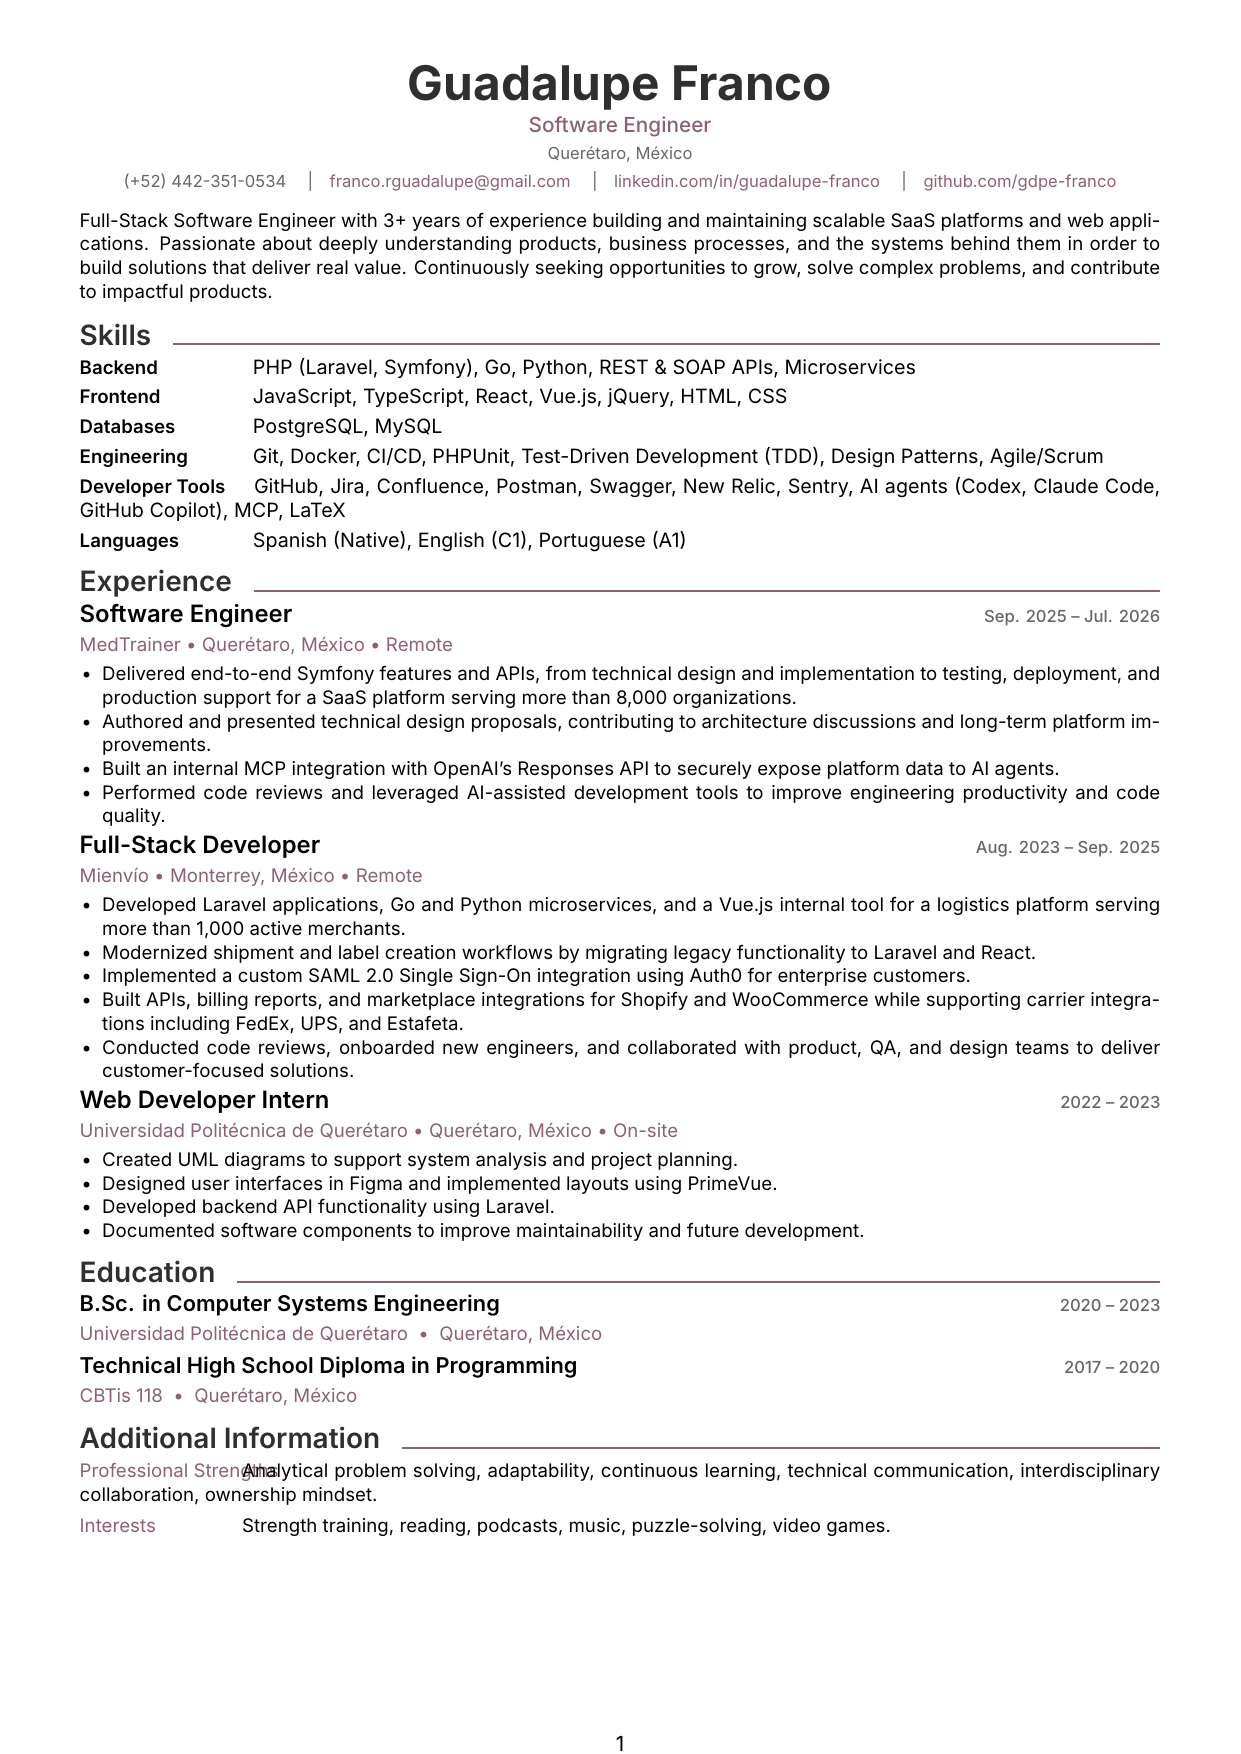
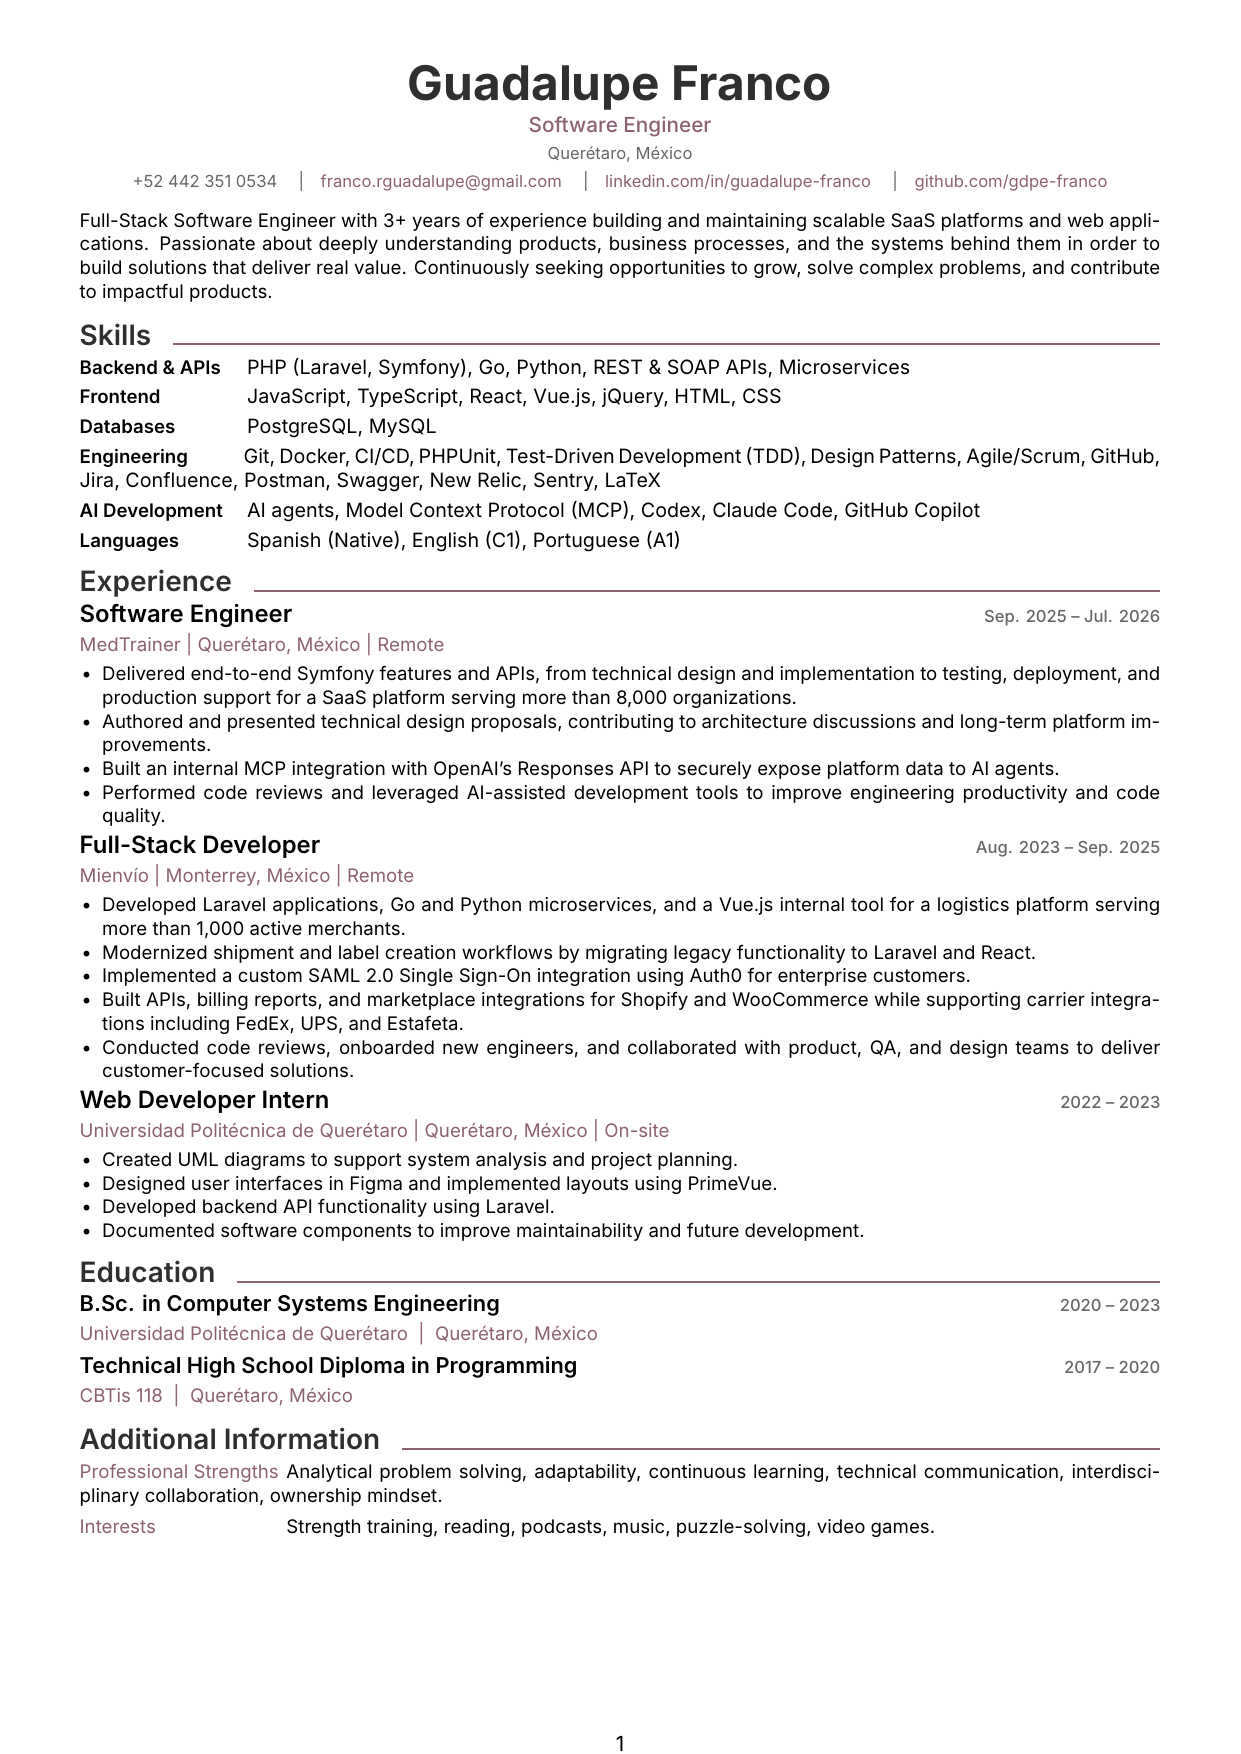
fix: skill categories and special characters

diff --git a/sections/skills.tex b/sections/skills.tex
@@ -1,6 +1,6 @@
 \sectiontitle{Skills}
 
-\skillgroup{Backend}{
+\skillgroup{Backend \& APIs}{
 PHP (Laravel, Symfony), Go, Python, REST \& SOAP APIs, Microservices
 }
 
@@ -13,11 +13,11 @@ PostgreSQL, MySQL
 }
 
 \skillgroup{Engineering}{
-Git, Docker, CI/CD, PHPUnit, Test-Driven Development (TDD), Design Patterns, Agile/Scrum
+Git, Docker, CI/CD (GitHub Actions, Jenkins), PHPUnit, Test-Driven Development (TDD), Design Patterns, Agile/Scrum, Atlassian, Postman, Swagger, New Relic, Sentry, LaTeX
 }
 
-\skillgroup{Developer Tools}{
-GitHub, Jira, Confluence, Postman, Swagger, New Relic, Sentry, AI agents (Codex, Claude Code, GitHub Copilot), MCP, LaTeX
+\skillgroup{AI Development}{
+AI agents, Model Context Protocol (MCP), Codex, Claude Code, GitHub Copilot
 }
 
 \skillgroup{Languages}{

diff --git a/macros.tex b/macros.tex
@@ -90,7 +90,7 @@ partopsep=0pt
 %================================================
 \newcommand{\skillgroup}[2]{%
 \noindent
-\makebox[2.75cm][l]{{\intersemibold #1}}
+\makebox[2.65cm][l]{{\intersemibold #1}}
 {\fontsize{9.5}{12}\selectfont #2}
 
 \vspace{0.5pt}
@@ -106,7 +106,7 @@ partopsep=0pt
 \hfill
 {\fontsize{8}{10}\selectfont\intermedium\color{Muted} #4}
 
-{\color{Accent} #2 \;•\; #3}
+{\color{Accent} #2 \;\textbar\; #3}
 
 \vspace{2pt}
 }
@@ -117,7 +117,7 @@ partopsep=0pt
 
 \newcommand{\inforow}[2]{%
 
-\makebox[2.75cm][l]{{\color{Accent} #1}}#2
+\makebox[3.5cm][l]{{\color{Accent} #1}}#2
 
 \vspace{1pt}
 }

diff --git a/sections/experience.tex b/sections/experience.tex
@@ -2,7 +2,7 @@
 
 \job
 {Software Engineer}
-{MedTrainer • Querétaro, México • Remote}
+{MedTrainer \textbar\ Querétaro, México \textbar\ Remote}
 {Sep. 2025 -- Jul. 2026}
 {}
 
@@ -21,7 +21,7 @@
 
 \job
 {Full-Stack Developer}
-{Mienvío • Monterrey, México • Remote}
+{Mienvío \textbar\ Monterrey, México \textbar\ Remote}
 {Aug. 2023 -- Sep. 2025}
 {}
 
@@ -42,7 +42,7 @@
 
 \job
 {Web Developer Intern}
-{Universidad Politécnica de Querétaro • Querétaro, México • On-site}
+{Universidad Politécnica de Querétaro \textbar\ Querétaro, México \textbar\ On-site}
 {2022 -- 2023}
 {}
 

diff --git a/cv.tex b/cv.tex
@@ -18,7 +18,7 @@
     {Guadalupe Franco}
     {Software Engineer}
     {Querétaro, México}
-    {(+52) 442-351-0534}
+    {+52 442 351 0534}
     {franco.rguadalupe@gmail.com}
     {guadalupe-franco}
     {gdpe-franco}
